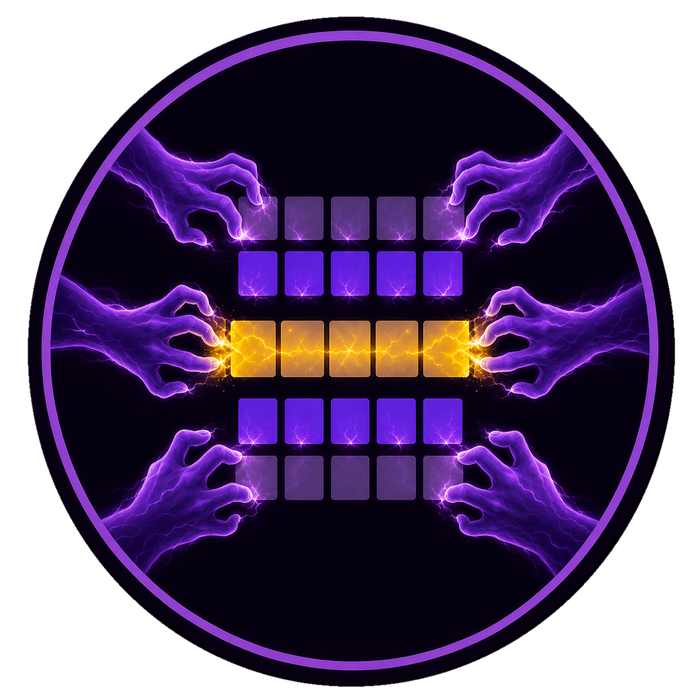
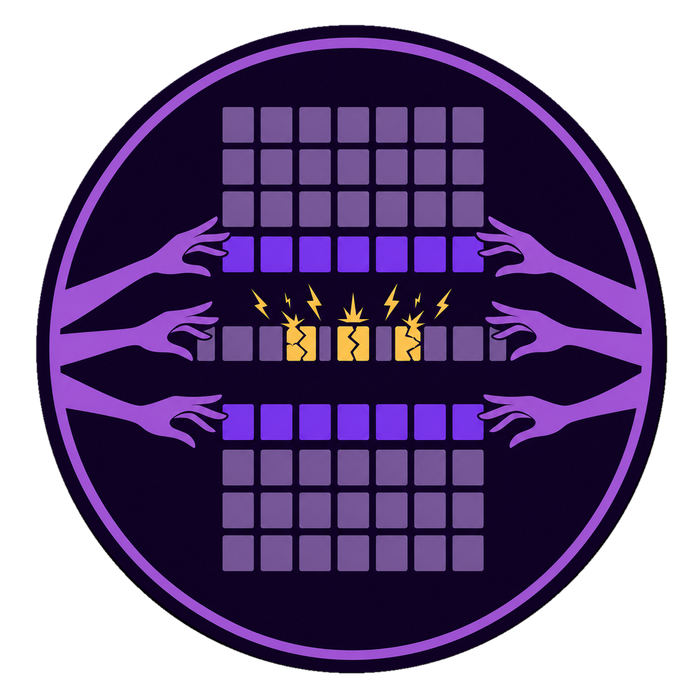
Match emblem arms and victim row reference

diff --git a/index.html b/index.html
@@ -11,7 +11,7 @@
     <meta property="og:url" content="https://noisyor.github.io/ROBBIN-Rowhammer-Based-Backdoor-Injection-during-Inference/" />
     <meta property="og:image" content="https://noisyor.github.io/ROBBIN-Rowhammer-Based-Backdoor-Injection-during-Inference/assets/robbin-og.png" />
     <meta name="twitter:card" content="summary_large_image" />
-    <link rel="icon" href="assets/robbin-robin-emblem.png?v=20260803f" />
+    <link rel="icon" href="assets/robbin-robin-emblem.png?v=20260803g" />
     <link rel="stylesheet" href="assets/site.css?v=20260803j" />
     <script src="assets/site.js?v=20260803c" defer></script>
     <title>ROBBIN · Rowhammer-Based Backdoor Injection during Inference</title>
@@ -21,7 +21,7 @@
     <div class="app-shell">
       <header class="site-header">
         <a class="brand" href="#overview" data-tab-link="overview" aria-label="ROBBIN overview">
-          <img src="assets/robbin-robin-emblem.png?v=20260803f" alt="" />
+          <img src="assets/robbin-robin-emblem.png?v=20260803g" alt="" />
           <span><strong>ROBBIN</strong><small>Hardware-aware backdoors</small></span>
         </a>
 
@@ -52,7 +52,7 @@
 
           <div class="overview-visual">
             <div class="emblem-showcase">
-              <img src="assets/robbin-robin-emblem.png?v=20260803f" alt="ROBBIN emblem showing mirrored supernatural hands pressing DRAM rows while yellow damage spreads across the victim cells" />
+              <img src="assets/robbin-robin-emblem.png?v=20260803g" alt="ROBBIN emblem showing three mirrored lateral arms on each side of DRAM rows with three victim cells turning yellow and cracking" />
               <div><strong>Hardware-aware by design</strong><span>Aggressor rows disturb the victim-row bits the model actually occupies.</span></div>
             </div>
             <figure class="paper-card">
@@ -180,7 +180,7 @@
               <p class="authors">Saion K. Roy, Yufei Wang, Aidong A. Ding, and Yunsi Fei</p>
               <p class="venue">IEEE/ACM International Conference on Computer-Aided Design · 2026 · To appear</p>
               <div class="actions"><a class="primary-action" href="https://github.com/noisyor/ROBBIN-Rowhammer-Based-Backdoor-Injection-during-Inference">GitHub repository ↗</a><a class="secondary-action" href="https://drive.google.com/drive/folders/113tWaQPlbuyK6h5fFslvnyCXRkXAqYg8?usp=sharing">Profiling data ↗</a></div>
-              <img class="paper-emblem" src="assets/robbin-robin-emblem.png?v=20260803f" alt="ROBBIN Rowhammer aggressor-row emblem" />
+              <img class="paper-emblem" src="assets/robbin-robin-emblem.png?v=20260803g" alt="ROBBIN Rowhammer aggressor-row emblem" />
             </div>
             <article class="abstract-card"><span class="control-label">Abstract</span><p>Existing Rowhammer-based inference-time backdoor attacks choose model bit flips without accounting for the complete fault set that the underlying DRAM will produce. This disconnect makes their behavior unreliable across devices and causes damaging collateral flips.</p><p>ROBBIN integrates device-specific vulnerability profiles into backdoor construction, selecting model-to-DRAM page mappings that maximize triggered behavior while preserving clean accuracy.</p></article>
             <div class="citation-card"><div class="command-header"><span>BibTeX · preliminary</span><button type="button" class="copy-button" data-copy-target="bibtex-code">Copy</button></div><pre><code id="bibtex-code">@inproceedings{roy2026robbin,
